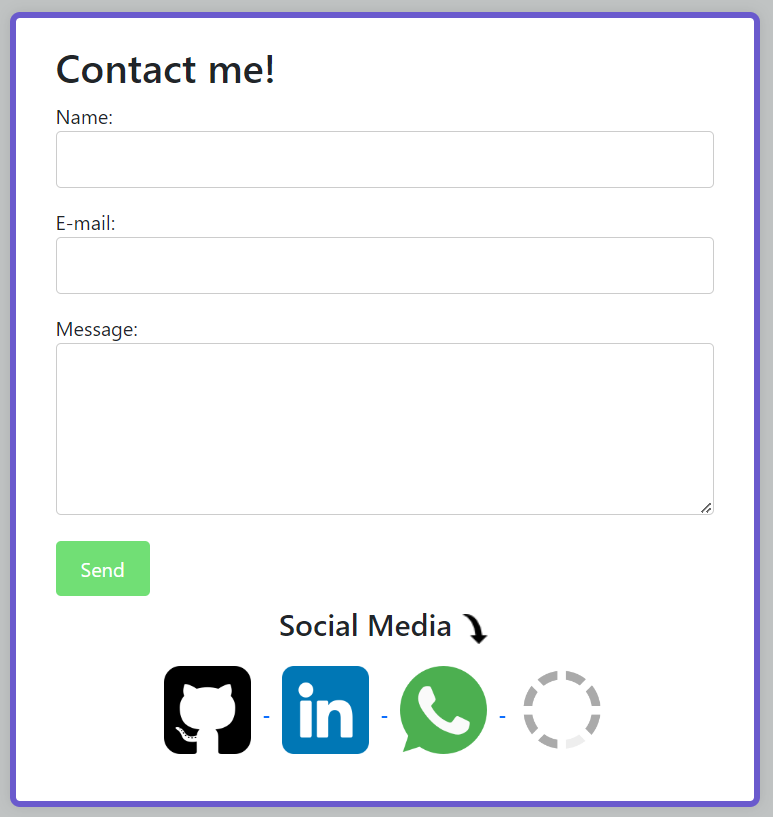
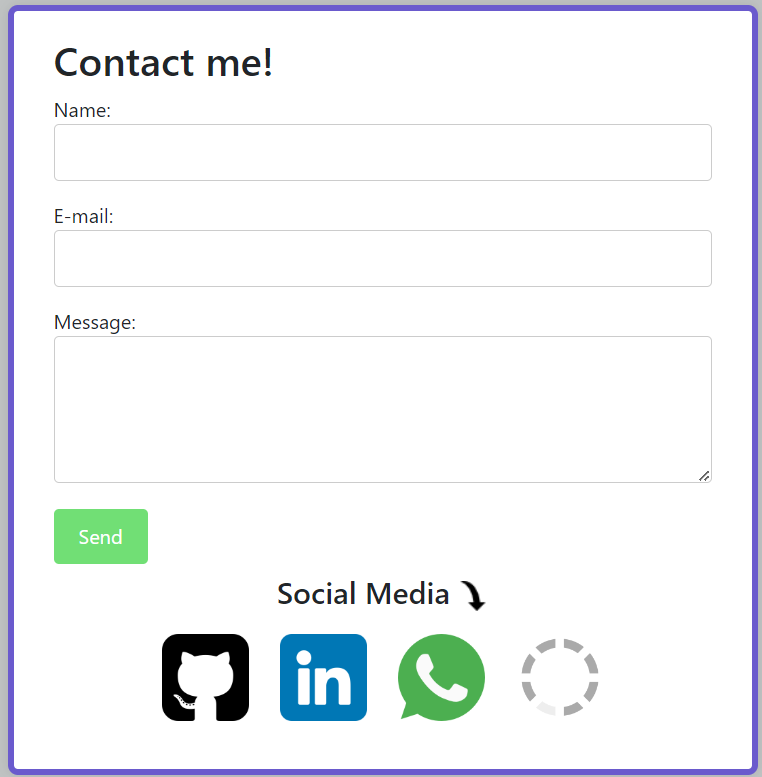
done README

diff --git a/index.html b/index.html
@@ -81,7 +81,7 @@
   <!-- ///////////// Work section /////////////// -->
 
   <!--  work-text -->
-  <div class="work-text d-flex justify-content-center align-items-center">
+  <div class="container-fluid work-text d-flex justify-content-center align-items-center">
     <img src="./assets/img/working.png" alt="" class="img-fluid">
     <h2> Work </h2>
     <img src="./assets/img/work-in-progress.png" alt="">
@@ -167,19 +167,12 @@
           <div class="contact">
             <h4>Social Media <img src="./assets/img/curve-down-arrow.png"> </h4>
             <a href="https://github.com/ramonsaguini" target="_blank">
-              <img src="./assets/img/github-sign.png" alt="GitHub icon">
-            </a>
-
+              <img src="./assets/img/github-sign.png" alt="GitHub icon"></a>
             <a href="https://www.linkedin.com/in/ramon-saguini-de-andrade-a40728277/" target="_blank">
-              <img src="./assets/img/linkedin.png" alt="Linkedin icon">
-            </a>
-
+              <img src="./assets/img/linkedin.png" alt="Linkedin icon"></a>
             <a href="https://wa.me/4407723028494" target="_blank">
-              <img src="./assets/img/whatsapp (1).png" alt="Whatsapp icon">
-            </a>
-            <a>
-              <img src="./assets/img/loading.gif" alt="Loading">
-            </a>
+              <img src="./assets/img/whatsapp (1).png" alt="Whatsapp icon"></a>
+            <a><img src="./assets/img/loading.gif" alt="Loading"></a>
           </div>
     
   </div>

diff --git a/README.md b/README.md
@@ -1,0 +1,107 @@
+# Ramon's Portfolio (Bootstrap version)
+
+This is the repository that contains the source code and files related to my personal portfolio. This portfolio highlights some of the projects and work I have been working on.
+
+## Content
+
+- [About Me](#about-me)
+- [Projects](#projects)
+- [Technologies](#technologies)
+- [Contact](#contact)
+
+## About me
+
+I am `Ramon Andrade`, a developer passionate about creating innovative solutions and solving challenging problems. My experience includes: `HTML`, `CSS`, `JavaScript` and `BootStrap`.
+
+## Projects
+
+### Portfolio
+ Live https://ramon-portfolio.vercel.app/
+- Screen above 1050px
+
+<img src="./assets/img/full-screen.png" alt="Full screen image" height="1000px" >
+
+- Screen below 1049px
+
+<img src="./assets/img/full-screen--1049.png" alt="1049px or below Full screen image" height="1000px" >
+
+#### NavBar 
+- Contains logo and button that directs to the exact location of the page
+
+<img src="./assets/img/navbar.png" alt="navbar image">
+
+#### Welcome
+- Contains a brief text describing a little about me
+
+<img src="./assets/img/welcome-section.png" alt="welcome section image" >
+
+#### Work 
+- Contains some of my projects carried out during my apprenticeship
+
+<img src="./assets/img/work-section.png" alt="work section image" >
+
+#### Contact 
+- Contains ways to contact me:  
+  - Form
+  - WhatsApp
+  - Social medias
+
+<img src="./assets/img/contact-section.png" height="200px" alt="contact section image" >
+
+
+### Project in the portfolio
+
+Here are some of the projects highlighted in my portfolio:
+
+1. Travel California 
+    - WebSite (Fake company)
+    - Technologies used: HTML, CSS and Bootstrap.
+    - Live: https://ramonsaguini.github.io/travel-california/ 
+    - Repository: https://github.com/ramonsaguini/travel-california 
+    
+    <img src="./assets/img/travel-california.png" alt="Travel California Website image" width="200" height="200">
+    
+2. Samanta Costa Website
+    - Hair Dresser website..
+    - Technologies used: HTML and BootStrap
+    - Live: https://site-88uh6wqe1-ramonsaguini.vercel.app/ 
+    - Repository: https://github.com/ramonsaguini/siteSam 
+
+    <img src="./assets/img/site-samanta.png" alt="Samanta Costa Website image" width="200" height="200">
+
+3. Lamp App
+    - App made to turn on/off, break and fix a light bulb. (JavaScript training)
+    - Technologies used: HTML, CSS and JavaScript
+    - Live: https://ramonsaguini.github.io/turnOnTurnOffLamp/ 
+    - Repository: https://github.com/ramonsaguini/turnOnTurnOffLamp
+
+    <img src="./assets/img/lamp.gif" alt="Calculator app image" width="200" height="200">
+
+4. Weather Forecast 
+    - Current weather checking app. Shows current temperature, relative humidity and whether the sky is clear, cloudy, etc...
+    - Technologies used: HTML, CSS, JavaScript and using the api resource.
+    - Live: https://weather-pkoejl4ub-ramonsaguini.vercel.app/ 
+    - Repository: https://github.com/ramonsaguini/weather 
+    
+    <img src="./assets/img/weather-app.png" alt="Weather Forecast app image" width="200" height="200">
+
+## Technologies
+
+Some of the technologies I'm comfortable with include:
+
+- HTML <img src="./assets/img/html.png" width="15" height="15" >
+- CSS <img src="./assets/img/css-3.png" width="15" height="15" >
+- JavaScript(in advance of learning) <img src="./assets/img/js.png" width="15" height="15" >
+- BootStrap(in advance of learning) <img src="./assets/img/bootstrap.svg" width="15" height="15" >
+
+## Contact
+
+  - Email: ramon_saguini1@hotmail.com
+  - Linkedin <a href="https://www.linkedin.com/in/ramon-saguini-de-andrade-a40728277/" target="_blank">
+              <img src="./assets/img/linkedin.png" width="15" height="15" alt="Linkedin icon" ></a> : https://www.linkedin.com/in/ramon-saguini-de-andrade-a40728277/
+  - GitHub <a href="https://github.com/ramonsaguini" target="_blank">
+              <img src="./assets/img/github-sign.png" width="15" height="15" alt="GitHub icon"></a>: https://github.com/ramonsaguini
+  - WhatsApp <a href="https://wa.me/4407723028494" target="_blank">
+              <img src="./assets/img/whatsapp (1).png" alt="Whatsapp icon" width="15" height="15" ></a>
+
+Feel free to explore my projects and get in touch if you have any questions or collaboration opportunities.
